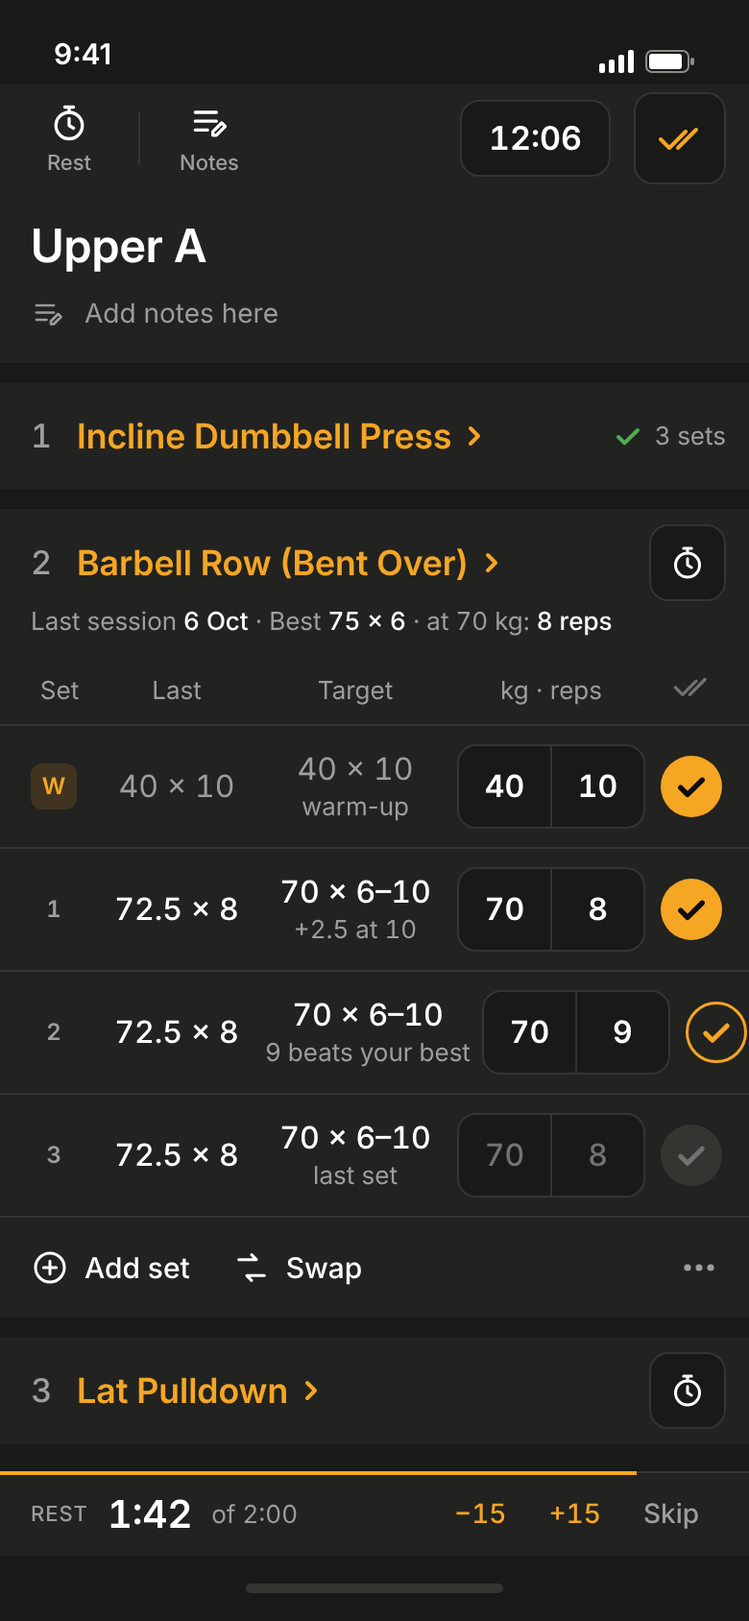
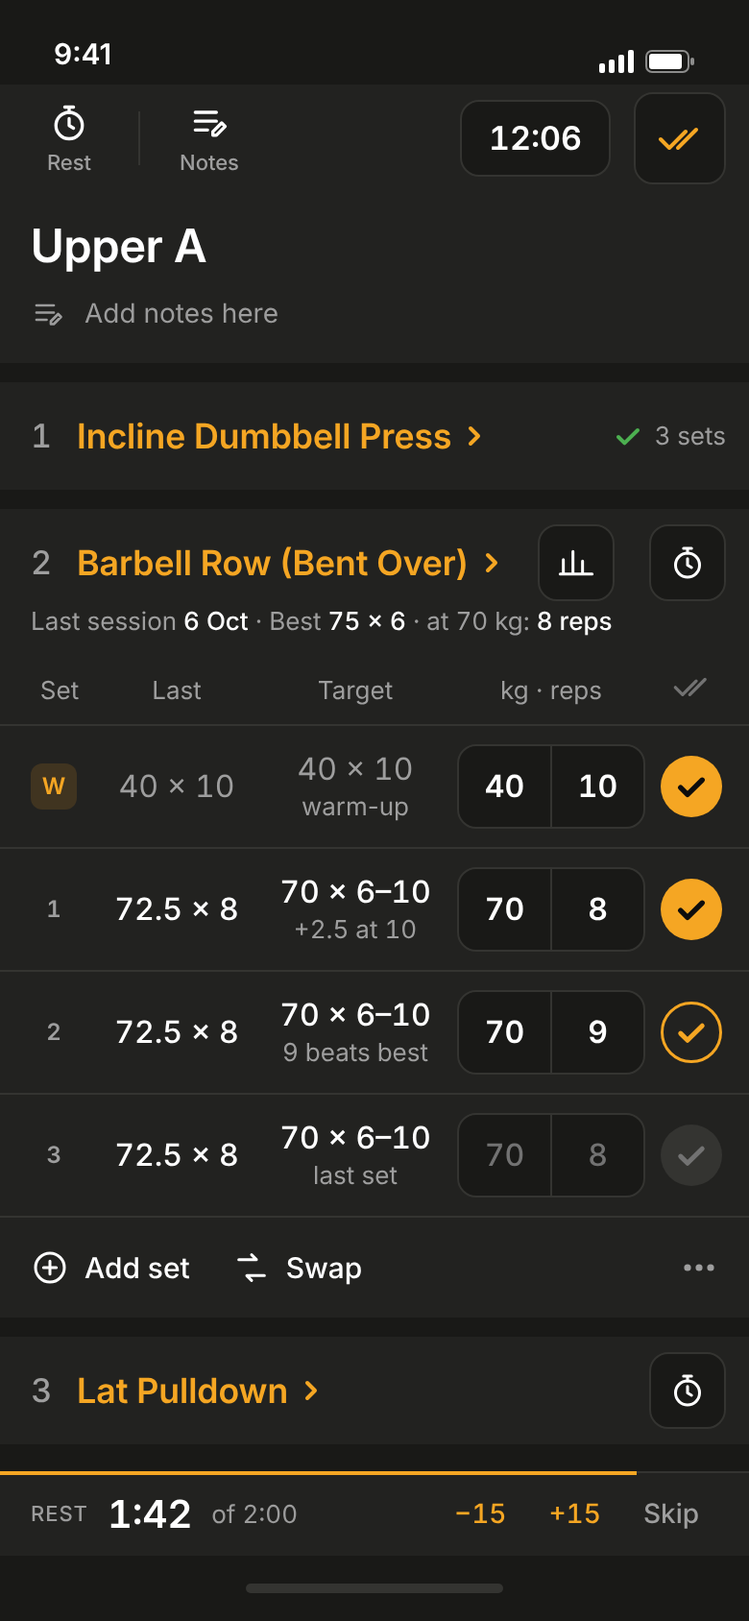
Workout logger rebuild: the JEFIT pattern, previous sets you can select and the records in full (D220 addendum 2)
Founder: look at how JEFIT lets you select the weights you have done
before and see your PRs. JEFIT studied from its store screens and its
own logging-screen article: rows pre-filled from the last log, a 1RM
badge beside the name opening a records sheet with lifetime and period
tabs, a charts page where a tapped point shows that day's logs. Volyume
builds a history glyph beside the rest button and a tappable bests line,
both opening a HistorySheet: previous sessions as chips that fill the
next row, and records for lifetime or three months with best reps at
each weight, each row tappable. Spec section 2b, the fourth drawing,
the design reference and both page copies updated.

diff --git a/docs/audit/workout-logger-audit-2026-10-06/12-design-reference.html b/docs/audit/workout-logger-audit-2026-10-06/12-design-reference.html
@@ -69,6 +69,28 @@
 .bc .key.sm{font-size:15px;color:var(--a)}
 .bc .key.next{color:var(--t1);font-size:16px}
 .bc .scroll{overflow:hidden;flex:1 1 auto;min-height:0}
+.bc .scrim{position:absolute;inset:0;background:rgba(0,0,0,.55)}
+.bc .sheetp{position:absolute;left:0;right:0;bottom:0;background:var(--sec);border-top-left-radius:20px;border-top-right-radius:20px;border-top:1px solid var(--bd);padding:8px 16px 0}
+.bc .hndl{width:36px;height:4px;border-radius:2px;background:var(--bd);margin:0 auto 12px}
+.bc .sh-title{font-size:17px;font-weight:500;text-align:center}
+.bc .seg{display:flex;background:var(--well);border:1px solid var(--wellbd);border-radius:10px;padding:3px;margin:12px 0 14px}
+.bc .seg span{flex:1;height:34px;display:flex;align-items:center;justify-content:center;font-size:13px;font-weight:500;color:var(--t2);border-radius:8px}
+.bc .seg span.on{background:var(--s3);color:var(--t1)}
+.bc .sess{padding:10px 0 6px}
+.bc .sess .d{font-size:13px;color:var(--t2);margin-bottom:8px;display:flex;justify-content:space-between}
+.bc .chips{display:flex;flex-wrap:wrap;gap:8px}
+.bc .chip{height:36px;padding:0 12px;border-radius:999px;background:var(--well);border:1px solid var(--wellbd);display:flex;align-items:center;font-size:15px;font-weight:500}
+.bc .chip.best{border-color:var(--a)}
+.bc .chip .pr{margin-left:6px}
+.bc .rec{display:flex;justify-content:space-between;align-items:center;height:52px;border-bottom:1px solid var(--hair)}
+.bc .rec .l{font-size:13px;color:var(--t2)}
+.bc .rec .r{text-align:right}
+.bc .rec .r b{display:block;font-size:16px;font-weight:600}
+.bc .rec .r i{font-style:normal;font-size:11px;color:var(--t3)}
+.bc .tog{display:flex;gap:8px;margin:0 0 6px}
+.bc .tog span{height:32px;padding:0 12px;border-radius:999px;border:1px solid var(--wellbd);display:flex;align-items:center;font-size:13px;color:var(--t2)}
+.bc .tog span.on{background:var(--abg);border-color:var(--a);color:var(--a)}
+
 
 html,body{margin:0;background:#0D0D0D} body{display:flex;gap:24px} .bc{border-radius:0;border:0}</style></head><body>
 
@@ -84,12 +106,12 @@ html,body{margin:0;background:#0D0D0D} body{display:flex;gap:24px} .bc{border-ra
   <div class="sec"><div class="xh"><span class="idx n">1</span><span class="nm">Incline Dumbbell Press <svg width="16" height="16" viewBox="0 0 16 16" fill="none" stroke="#F5A623" stroke-width="2" stroke-linecap="round" stroke-linejoin="round" style="flex:0 0 auto"><path d="M6 4l4 4-4 4"/></svg></span><span class="done"><svg width="16" height="16" viewBox="0 0 16 16" fill="none" stroke="#4CAF50" stroke-width="2" stroke-linecap="round" stroke-linejoin="round"><path d="M3 8.5l3.2 3.2L13 5"/></svg> 3 sets</span></div></div>
   <div class="band"></div>
   <div class="sec">
-    <div class="xh"><span class="idx n">2</span><span class="nm">Barbell Row (Bent Over) <svg width="16" height="16" viewBox="0 0 16 16" fill="none" stroke="#F5A623" stroke-width="2" stroke-linecap="round" stroke-linejoin="round" style="flex:0 0 auto"><path d="M6 4l4 4-4 4"/></svg></span><span class="sq"><svg width="20" height="20" viewBox="0 0 24 24" fill="none" stroke="#FFFFFF" stroke-width="1.8" stroke-linecap="round" stroke-linejoin="round"><circle cx="12" cy="13.5" r="7.5"/><path d="M12 9.5v4l2.5 1.5M9.5 3h5M12 3v3"/></svg></span></div>
+    <div class="xh"><span class="idx n">2</span><span class="nm">Barbell Row (Bent Over) <svg width="16" height="16" viewBox="0 0 16 16" fill="none" stroke="#F5A623" stroke-width="2" stroke-linecap="round" stroke-linejoin="round" style="flex:0 0 auto"><path d="M6 4l4 4-4 4"/></svg></span><span class="sq" style="margin-left:auto"><svg width="20" height="20" viewBox="0 0 24 24" fill="none" stroke="#FFFFFF" stroke-width="1.8" stroke-linecap="round" stroke-linejoin="round"><path d="M4 19V10M10 19V5M16 19v-8M22 19H2"/></svg></span><span class="sq" style="margin-left:8px"><svg width="20" height="20" viewBox="0 0 24 24" fill="none" stroke="#FFFFFF" stroke-width="1.8" stroke-linecap="round" stroke-linejoin="round"><circle cx="12" cy="13.5" r="7.5"/><path d="M12 9.5v4l2.5 1.5M9.5 3h5M12 3v3"/></svg></span></div>
     <div class="bests n">Last session <b>6 Oct</b> · Best <b>75 × 6</b> · at 70 kg: <b>8 reps</b></div>
     <div class="cols"><span class="c">Set</span><span class="c">Last</span><span class="c">Target</span><span class="c">kg · reps</span><span class="c"><svg width="20" height="20" viewBox="0 0 24 24" fill="none" stroke="#727272" stroke-width="2" stroke-linecap="round" stroke-linejoin="round" style="margin:0 auto"><path d="M2 12.5l4.5 4.5L15 8.5"/><path d="M11 17l9.5-9.5"/></svg></span></div>
     <div class="row"><span class="mk w">W</span><div class="cell dim"><div class="v n">40 × 10</div></div><div class="cell dim"><div class="v n">40 × 10</div><div class="s">warm-up</div></div><div class="wells n"><span>40</span><span>10</span></div><span class="chk on"><svg width="18" height="18" viewBox="0 0 16 16" fill="none" stroke="#0D0D0D" stroke-width="2.4" stroke-linecap="round" stroke-linejoin="round"><path d="M3 8.5l3.2 3.2L13 5"/></svg></span></div>
     <div class="row"><span class="mk n">1</span><div class="cell"><div class="v n">72.5 × 8</div></div><div class="cell"><div class="v n">70 × 6–10</div><div class="s n">+2.5 at 10</div></div><div class="wells n"><span>70</span><span>8</span></div><span class="chk on"><svg width="18" height="18" viewBox="0 0 16 16" fill="none" stroke="#0D0D0D" stroke-width="2.4" stroke-linecap="round" stroke-linejoin="round"><path d="M3 8.5l3.2 3.2L13 5"/></svg></span></div>
-    <div class="row"><span class="mk n">2</span><div class="cell"><div class="v n">72.5 × 8</div></div><div class="cell"><div class="v n">70 × 6–10</div><div class="s n">9 beats your best</div></div><div class="wells n"><span>70</span><span>9</span></div><span class="chk next"><svg width="18" height="18" viewBox="0 0 16 16" fill="none" stroke="#F5A623" stroke-width="2.2" stroke-linecap="round" stroke-linejoin="round"><path d="M3 8.5l3.2 3.2L13 5"/></svg></span></div>
+    <div class="row"><span class="mk n">2</span><div class="cell"><div class="v n">72.5 × 8</div></div><div class="cell"><div class="v n">70 × 6–10</div><div class="s n">9 beats best</div></div><div class="wells n"><span>70</span><span>9</span></div><span class="chk next"><svg width="18" height="18" viewBox="0 0 16 16" fill="none" stroke="#F5A623" stroke-width="2.2" stroke-linecap="round" stroke-linejoin="round"><path d="M3 8.5l3.2 3.2L13 5"/></svg></span></div>
     <div class="row"><span class="mk n">3</span><div class="cell"><div class="v n">72.5 × 8</div></div><div class="cell"><div class="v n">70 × 6–10</div><div class="s">last set</div></div><div class="wells n ph"><span>70</span><span>8</span></div><span class="chk"><svg width="18" height="18" viewBox="0 0 16 16" fill="none" stroke="#727272" stroke-width="2.2" stroke-linecap="round" stroke-linejoin="round"><path d="M3 8.5l3.2 3.2L13 5"/></svg></span></div>
     <div class="ft"><span><svg width="20" height="20" viewBox="0 0 24 24" fill="none" stroke="#FFFFFF" stroke-width="1.8" stroke-linecap="round"><circle cx="12" cy="12" r="9"/><path d="M12 8v8M8 12h8"/></svg>Add set</span><span><svg width="20" height="20" viewBox="0 0 24 24" fill="none" stroke="#FFFFFF" stroke-width="1.8" stroke-linecap="round" stroke-linejoin="round"><path d="M4 7h11l-3-3M20 17H9l3 3"/></svg>Swap</span><span class="more"><svg width="20" height="20" viewBox="0 0 20 20" fill="#9E9E9E"><circle cx="4" cy="10" r="1.8"/><circle cx="10" cy="10" r="1.8"/><circle cx="16" cy="10" r="1.8"/></svg></span></div>
   </div>
@@ -111,12 +133,12 @@ html,body{margin:0;background:#0D0D0D} body{display:flex;gap:24px} .bc{border-ra
   <div class="sec"><div class="xh"><span class="idx n">1</span><span class="nm">Incline Dumbbell Press <svg width="16" height="16" viewBox="0 0 16 16" fill="none" stroke="#F5A623" stroke-width="2" stroke-linecap="round" stroke-linejoin="round" style="flex:0 0 auto"><path d="M6 4l4 4-4 4"/></svg></span><span class="done"><svg width="16" height="16" viewBox="0 0 16 16" fill="none" stroke="#4CAF50" stroke-width="2" stroke-linecap="round" stroke-linejoin="round"><path d="M3 8.5l3.2 3.2L13 5"/></svg> 3 sets</span></div></div>
   <div class="band"></div>
   <div class="sec">
-    <div class="xh"><span class="idx n">2</span><span class="nm">Barbell Row (Bent Over) <svg width="16" height="16" viewBox="0 0 16 16" fill="none" stroke="#F5A623" stroke-width="2" stroke-linecap="round" stroke-linejoin="round" style="flex:0 0 auto"><path d="M6 4l4 4-4 4"/></svg></span><span class="sq"><svg width="20" height="20" viewBox="0 0 24 24" fill="none" stroke="#FFFFFF" stroke-width="1.8" stroke-linecap="round" stroke-linejoin="round"><circle cx="12" cy="13.5" r="7.5"/><path d="M12 9.5v4l2.5 1.5M9.5 3h5M12 3v3"/></svg></span></div>
+    <div class="xh"><span class="idx n">2</span><span class="nm">Barbell Row (Bent Over) <svg width="16" height="16" viewBox="0 0 16 16" fill="none" stroke="#F5A623" stroke-width="2" stroke-linecap="round" stroke-linejoin="round" style="flex:0 0 auto"><path d="M6 4l4 4-4 4"/></svg></span><span class="sq" style="margin-left:auto"><svg width="20" height="20" viewBox="0 0 24 24" fill="none" stroke="#FFFFFF" stroke-width="1.8" stroke-linecap="round" stroke-linejoin="round"><path d="M4 19V10M10 19V5M16 19v-8M22 19H2"/></svg></span><span class="sq" style="margin-left:8px"><svg width="20" height="20" viewBox="0 0 24 24" fill="none" stroke="#FFFFFF" stroke-width="1.8" stroke-linecap="round" stroke-linejoin="round"><circle cx="12" cy="13.5" r="7.5"/><path d="M12 9.5v4l2.5 1.5M9.5 3h5M12 3v3"/></svg></span></div>
     <div class="bests n">Last session <b>6 Oct</b> · Best <b>75 × 6</b> · at 70 kg: <b>8 reps</b></div>
     <div class="cols"><span class="c">Set</span><span class="c">Last</span><span class="c">Target</span><span class="c">kg · reps</span><span class="c"><svg width="20" height="20" viewBox="0 0 24 24" fill="none" stroke="#727272" stroke-width="2" stroke-linecap="round" stroke-linejoin="round" style="margin:0 auto"><path d="M2 12.5l4.5 4.5L15 8.5"/><path d="M11 17l9.5-9.5"/></svg></span></div>
     <div class="row"><span class="mk w">W</span><div class="cell dim"><div class="v n">40 × 10</div></div><div class="cell dim"><div class="v n">40 × 10</div><div class="s">warm-up</div></div><div class="wells n"><span>40</span><span>10</span></div><span class="chk on"><svg width="18" height="18" viewBox="0 0 16 16" fill="none" stroke="#0D0D0D" stroke-width="2.4" stroke-linecap="round" stroke-linejoin="round"><path d="M3 8.5l3.2 3.2L13 5"/></svg></span></div>
     <div class="row"><span class="mk n">1</span><div class="cell"><div class="v n">72.5 × 8</div></div><div class="cell"><div class="v n">70 × 6–10</div><div class="s n">+2.5 at 10</div></div><div class="wells n"><span>70</span><span>8</span></div><span class="chk on"><svg width="18" height="18" viewBox="0 0 16 16" fill="none" stroke="#0D0D0D" stroke-width="2.4" stroke-linecap="round" stroke-linejoin="round"><path d="M3 8.5l3.2 3.2L13 5"/></svg></span></div>
-    <div class="row"><span class="mk n">2</span><div class="cell"><div class="v n">72.5 × 8</div></div><div class="cell"><div class="v n">70 × 6–10</div><div class="s n">9 beats your best</div></div><div class="wells n"><span>70</span><span>9</span></div><span class="chk next"><svg width="18" height="18" viewBox="0 0 16 16" fill="none" stroke="#F5A623" stroke-width="2.2" stroke-linecap="round" stroke-linejoin="round"><path d="M3 8.5l3.2 3.2L13 5"/></svg></span></div>
+    <div class="row"><span class="mk n">2</span><div class="cell"><div class="v n">72.5 × 8</div></div><div class="cell"><div class="v n">70 × 6–10</div><div class="s n">9 beats best</div></div><div class="wells n"><span>70</span><span>9</span></div><span class="chk next"><svg width="18" height="18" viewBox="0 0 16 16" fill="none" stroke="#F5A623" stroke-width="2.2" stroke-linecap="round" stroke-linejoin="round"><path d="M3 8.5l3.2 3.2L13 5"/></svg></span></div>
     <div class="row"><span class="mk n">3</span><div class="cell"><div class="v n">72.5 × 8</div></div><div class="cell"><div class="v n">70 × 6–10</div><div class="s">last set</div></div><div class="wells n ph"><span>70</span><span>8</span></div><span class="chk"><svg width="18" height="18" viewBox="0 0 16 16" fill="none" stroke="#727272" stroke-width="2.2" stroke-linecap="round" stroke-linejoin="round"><path d="M3 8.5l3.2 3.2L13 5"/></svg></span></div>
     <div class="ft"><span><svg width="20" height="20" viewBox="0 0 24 24" fill="none" stroke="#FFFFFF" stroke-width="1.8" stroke-linecap="round"><circle cx="12" cy="12" r="9"/><path d="M12 8v8M8 12h8"/></svg>Add set</span><span><svg width="20" height="20" viewBox="0 0 24 24" fill="none" stroke="#FFFFFF" stroke-width="1.8" stroke-linecap="round" stroke-linejoin="round"><path d="M4 7h11l-3-3M20 17H9l3 3"/></svg>Swap</span><span class="more"><svg width="20" height="20" viewBox="0 0 20 20" fill="#9E9E9E"><circle cx="4" cy="10" r="1.8"/><circle cx="10" cy="10" r="1.8"/><circle cx="16" cy="10" r="1.8"/></svg></span></div>
   </div>
@@ -135,12 +157,12 @@ html,body{margin:0;background:#0D0D0D} body{display:flex;gap:24px} .bc{border-ra
   </div>
   <div class="scroll">
   <div class="sec">
-    <div class="xh"><span class="idx n">2</span><span class="nm">Barbell Row (Bent Over) <svg width="16" height="16" viewBox="0 0 16 16" fill="none" stroke="#F5A623" stroke-width="2" stroke-linecap="round" stroke-linejoin="round" style="flex:0 0 auto"><path d="M6 4l4 4-4 4"/></svg></span><span class="sq"><svg width="20" height="20" viewBox="0 0 24 24" fill="none" stroke="#FFFFFF" stroke-width="1.8" stroke-linecap="round" stroke-linejoin="round"><circle cx="12" cy="13.5" r="7.5"/><path d="M12 9.5v4l2.5 1.5M9.5 3h5M12 3v3"/></svg></span></div>
+    <div class="xh"><span class="idx n">2</span><span class="nm">Barbell Row (Bent Over) <svg width="16" height="16" viewBox="0 0 16 16" fill="none" stroke="#F5A623" stroke-width="2" stroke-linecap="round" stroke-linejoin="round" style="flex:0 0 auto"><path d="M6 4l4 4-4 4"/></svg></span><span class="sq" style="margin-left:auto"><svg width="20" height="20" viewBox="0 0 24 24" fill="none" stroke="#FFFFFF" stroke-width="1.8" stroke-linecap="round" stroke-linejoin="round"><path d="M4 19V10M10 19V5M16 19v-8M22 19H2"/></svg></span><span class="sq" style="margin-left:8px"><svg width="20" height="20" viewBox="0 0 24 24" fill="none" stroke="#FFFFFF" stroke-width="1.8" stroke-linecap="round" stroke-linejoin="round"><circle cx="12" cy="13.5" r="7.5"/><path d="M12 9.5v4l2.5 1.5M9.5 3h5M12 3v3"/></svg></span></div>
     <div class="bests n">Last session <b>6 Oct</b> · Best <b>75 × 6</b> · at 70 kg: <b>8 reps</b></div>
     <div class="cols"><span class="c">Set</span><span class="c">Last</span><span class="c">Target</span><span class="c">kg · reps</span><span class="c"><svg width="20" height="20" viewBox="0 0 24 24" fill="none" stroke="#727272" stroke-width="2" stroke-linecap="round" stroke-linejoin="round" style="margin:0 auto"><path d="M2 12.5l4.5 4.5L15 8.5"/><path d="M11 17l9.5-9.5"/></svg></span></div>
     <div class="row"><span class="mk w">W</span><div class="cell dim"><div class="v n">40 × 10</div></div><div class="cell dim"><div class="v n">40 × 10</div><div class="s">warm-up</div></div><div class="wells n"><span>40</span><span>10</span></div><span class="chk on"><svg width="18" height="18" viewBox="0 0 16 16" fill="none" stroke="#0D0D0D" stroke-width="2.4" stroke-linecap="round" stroke-linejoin="round"><path d="M3 8.5l3.2 3.2L13 5"/></svg></span></div>
     <div class="row"><span class="mk n">1</span><div class="cell"><div class="v n">72.5 × 8</div></div><div class="cell"><div class="v n">70 × 6–10<span class="pr">PR</span></div><div class="s n">+2.5 at 10</div></div><div class="wells n"><span>70</span><span>9</span></div><span class="chk on"><svg width="18" height="18" viewBox="0 0 16 16" fill="none" stroke="#0D0D0D" stroke-width="2.4" stroke-linecap="round" stroke-linejoin="round"><path d="M3 8.5l3.2 3.2L13 5"/></svg></span></div>
-    <div class="row"><span class="mk n">2</span><div class="cell"><div class="v n">72.5 × 8</div></div><div class="cell"><div class="v n">70 × 6–10</div><div class="s n">10 beats your best</div></div><div class="wells n edit"><span class="on">72.5</span><span>9</span></div><span class="chk next"><svg width="18" height="18" viewBox="0 0 16 16" fill="none" stroke="#F5A623" stroke-width="2.2" stroke-linecap="round" stroke-linejoin="round"><path d="M3 8.5l3.2 3.2L13 5"/></svg></span></div>
+    <div class="row"><span class="mk n">2</span><div class="cell"><div class="v n">72.5 × 8</div></div><div class="cell"><div class="v n">70 × 6–10</div><div class="s n">10 beats best</div></div><div class="wells n edit"><span class="on">72.5</span><span>9</span></div><span class="chk next"><svg width="18" height="18" viewBox="0 0 16 16" fill="none" stroke="#F5A623" stroke-width="2.2" stroke-linecap="round" stroke-linejoin="round"><path d="M3 8.5l3.2 3.2L13 5"/></svg></span></div>
     <div class="row"><span class="mk n">3</span><div class="cell"><div class="v n">72.5 × 8</div></div><div class="cell"><div class="v n">70 × 6–10</div><div class="s">last set</div></div><div class="wells n ph"><span>70</span><span>8</span></div><span class="chk"><svg width="18" height="18" viewBox="0 0 16 16" fill="none" stroke="#727272" stroke-width="2.2" stroke-linecap="round" stroke-linejoin="round"><path d="M3 8.5l3.2 3.2L13 5"/></svg></span></div>
   </div>
   </div>
@@ -155,5 +177,38 @@ html,body{margin:0;background:#0D0D0D} body{display:flex;gap:24px} .bc{border-ra
     </div>
   </div>
   <div class="home"><i></i></div>
+</div>
+
+<div class="bc" aria-label="History and records sheet">
+  <div class="sb"><span>9:41</span><span class="ic"><svg width="18" height="12" viewBox="0 0 18 12" fill="none"><rect x="0" y="7" width="3" height="5" rx="1" fill="#FFF"/><rect x="5" y="5" width="3" height="7" rx="1" fill="#FFF"/><rect x="10" y="2.5" width="3" height="9.5" rx="1" fill="#FFF"/><rect x="15" y="0" width="3" height="12" rx="1" fill="#FFF"/></svg><svg width="26" height="12" viewBox="0 0 26 12" fill="none"><rect x="0.5" y="0.5" width="22" height="11" rx="3" stroke="#FFF" stroke-opacity=".5"/><rect x="2" y="2" width="17" height="8" rx="1.5" fill="#FFF"/><rect x="23.5" y="4" width="2" height="4" rx="1" fill="#FFF" fill-opacity=".5"/></svg></span></div>
+  <div class="tb">
+    <div class="tool"><svg width="22" height="22" viewBox="0 0 24 24" fill="none" stroke="#FFFFFF" stroke-width="1.8" stroke-linecap="round" stroke-linejoin="round"><circle cx="12" cy="13.5" r="7.5"/><path d="M12 9.5v4l2.5 1.5M9.5 3h5M12 3v3"/></svg>Rest</div><div class="tbdiv"></div><div class="tool"><svg width="22" height="22" viewBox="0 0 24 24" fill="none" stroke="#FFFFFF" stroke-width="1.8" stroke-linecap="round" stroke-linejoin="round"><path d="M4 6h12M4 11h12M4 16h7"/><path d="M19 12l2 2-5 5h-2v-2l5-5z"/></svg>Notes</div>
+    <div class="pill n">12:06</div>
+    <div class="fin"><svg width="24" height="24" viewBox="0 0 24 24" fill="none" stroke="#F5A623" stroke-width="2" stroke-linecap="round" stroke-linejoin="round"><path d="M2 12.5l4.5 4.5L15 8.5"/><path d="M11 17l9.5-9.5"/></svg></div>
+  </div>
+  <div class="hd"><div class="t">Upper A</div><div class="note"><svg width="18" height="18" viewBox="0 0 24 24" fill="none" stroke="#9C9C9C" stroke-width="1.8" stroke-linecap="round" stroke-linejoin="round"><path d="M4 6h12M4 11h12M4 16h7"/><path d="M19 12l2 2-5 5h-2v-2l5-5z"/></svg>Add notes here</div></div>
+  <div class="band"></div>
+  <div class="sec"><div class="xh"><span class="idx n">1</span><span class="nm">Incline Dumbbell Press <svg width="16" height="16" viewBox="0 0 16 16" fill="none" stroke="#F5A623" stroke-width="2" stroke-linecap="round" stroke-linejoin="round" style="flex:0 0 auto"><path d="M6 4l4 4-4 4"/></svg></span><span class="done"><svg width="16" height="16" viewBox="0 0 16 16" fill="none" stroke="#4CAF50" stroke-width="2" stroke-linecap="round" stroke-linejoin="round"><path d="M3 8.5l3.2 3.2L13 5"/></svg> 3 sets</span></div></div>
+  <div class="band"></div>
+  <div class="sec">
+    <div class="xh"><span class="idx n">2</span><span class="nm">Barbell Row (Bent Over) <svg width="16" height="16" viewBox="0 0 16 16" fill="none" stroke="#F5A623" stroke-width="2" stroke-linecap="round" stroke-linejoin="round" style="flex:0 0 auto"><path d="M6 4l4 4-4 4"/></svg></span><span class="sq" style="margin-left:auto"><svg width="20" height="20" viewBox="0 0 24 24" fill="none" stroke="#FFFFFF" stroke-width="1.8" stroke-linecap="round" stroke-linejoin="round"><path d="M4 19V10M10 19V5M16 19v-8M22 19H2"/></svg></span><span class="sq" style="margin-left:8px"><svg width="20" height="20" viewBox="0 0 24 24" fill="none" stroke="#FFFFFF" stroke-width="1.8" stroke-linecap="round" stroke-linejoin="round"><circle cx="12" cy="13.5" r="7.5"/><path d="M12 9.5v4l2.5 1.5M9.5 3h5M12 3v3"/></svg></span></div>
+    <div class="bests n">Last session <b>6 Oct</b> · Best <b>75 × 6</b> · at 70 kg: <b>8 reps</b></div>
+  </div>
+  <div class="scrim"></div>
+  <div class="sheetp">
+    <div class="hndl"></div>
+    <div class="sh-title">Barbell Row (Bent Over)</div>
+    <div class="seg"><span class="on">History</span><span>Records</span></div>
+    <div class="sess"><div class="d n"><span>6 Oct · Upper A</span><span>3 sets</span></div><div class="chips n"><span class="chip best">72.5 × 8</span><span class="chip">72.5 × 8</span><span class="chip">70 × 10</span></div></div>
+    <div class="sess"><div class="d n"><span>29 Sep · Upper A</span><span>3 sets</span></div><div class="chips n"><span class="chip">70 × 10</span><span class="chip best">70 × 10</span><span class="chip">70 × 9</span></div></div>
+    <div class="sess"><div class="d n"><span>22 Sep · Upper A</span><span>3 sets</span></div><div class="chips n"><span class="chip best">75 × 6</span><span class="chip">70 × 8</span><span class="chip">70 × 8</span></div></div>
+    <div class="sess"><div class="d n"><span>15 Sep · Upper A</span><span>4 sets</span></div><div class="chips n"><span class="chip best">70 × 9</span><span class="chip">70 × 8</span><span class="chip">70 × 8</span><span class="chip">65 × 10</span></div></div>
+    <div style="height:14px"></div>
+    <div class="tog"><span class="on">Lifetime</span><span>3 months</span></div>
+    <div class="rec"><span class="l">Heaviest set</span><span class="r n"><b>75 kg × 6</b><i>22 Sep</i></span></div>
+    <div class="rec"><span class="l">Most reps at 70 kg</span><span class="r n"><b>10 reps</b><i>29 Sep</i></span></div>
+    <div class="rec"><span class="l">Best estimated max</span><span class="r n"><b>93 kg</b><i>22 Sep · 75 × 6</i></span></div>
+    <div class="home"><i></i></div>
+  </div>
 </div>
 </body></html>

diff --git a/docs/audit/workout-logger-audit-2026-10-06/08-research-page.html b/docs/audit/workout-logger-audit-2026-10-06/08-research-page.html
@@ -207,7 +207,7 @@ table.cmp.tight td,table.cmp.tight th{padding:8px 8px}
 
 <h2>2. The twelve screens</h2>
 <p>Each caption states what is observed (sizes approximate, see method), then the layout model. Source is the exact store asset the crop was taken from.</p>
-<p class="note"><b>Repository copy.</b> This file loads each full store screenshot from Apple's image host by URL rather than carrying the crops, and references the drawings as files beside it; the published page (the artifact linked from 00 and 09) carries the enlarged crops and the drawings inline.</p>
+<p class="note"><b>Repository copy.</b> This file loads each full store screenshot from Apple's image host by URL rather than carrying the crops, and references the drawings as files beside it; the published page carries the enlarged crops and the drawings inline.</p>
 <div class="grid">
 
 <figure class="shot"><img src="https://is1-ssl.mzstatic.com/image/thumb/PurpleSource211/v4/9e/20/11/9e2011c2-ef21-e716-c60a-5c2fe0b26297/a66b427f-5742-4ef6-9f1f-7fb2aeb5f927_screenshot1.png/640x1386bb.png" alt="Hevy active workout screen" loading="lazy">
@@ -607,6 +607,7 @@ table.cmp.tight td,table.cmp.tight th{padding:8px 8px}
 <figure class="shot"><img src="09-drawing-bc-black.png" alt="Volyume logger in Boostcamp's grammar, near-black tone"><div class="t">Near-black tone <span>house base</span></div></figure>
 <figure class="shot"><img src="09-drawing-bc-sheet.png" alt="Volyume logger in Boostcamp's grammar, sheet tone"><div class="t">Sheet tone <span>surface page</span></div></figure>
 <figure class="shot"><img src="09-drawing-bc-keypad.png" alt="Volyume logger in Boostcamp's grammar, keypad open"><div class="t">Keypad open <span>editing kg</span></div></figure>
+<figure class="shot"><img src="09-drawing-bc-history.png" alt="Volyume logger in Boostcamp's grammar, history and records sheet"><div class="t">History and records <span>founder addition</span></div></figure>
 </div>
 <div class="legend" style="max-width:760px">
 <ol>
@@ -618,6 +619,7 @@ table.cmp.tight td,table.cmp.tight th{padding:8px 8px}
 <li><b>Rows</b> at 64 with hairlines: W badge for the warm-up (only when one is logged), numbers for working sets, Last as last session's set, Target as the coach's numbers over the coach's rule, the joined wells, the check. Done rows: white values, amber check. The next set: the coach's numbers filled in white and an amber ring. Later sets: grey placeholders.</li>
 <li><b>Footer.</b> Add set, Swap, overflow.</li>
 <li><b>Rest strip.</b> The pinned 44 dp strip docked above the home indicator: REST, 1:42 at 20, of 2:00, −15, +15, Skip, with the amber line draining along its top edge.</li>
+<li><b>History and records sheet</b> (founder addition, 7 October, after JEFIT). Opened by the history glyph beside the rest button or by tapping the bests line. History: previous sessions newest first, each set a chip, the session's best ringed; tapping a chip puts that weight and reps into the next row. Records: Lifetime or 3 months, the heaviest set, most reps at today's weight, best estimated max and best session volume with their dates, then best reps at each weight, every row tappable. The drawing shows both segments stacked; in the app one shows at a time.</li>
 <li><b>Keypad.</b> Docked when a well is tapped: keyboard toggle, kg | Reps tabs, Clear; digits at 22; −2.5 and +2.5 in amber; point, Next (moves to reps, then to the check), backspace. A well being edited takes an amber edge and value.</li>
 </ol>
 </div>

diff --git a/docs/audit/workout-logger-audit-2026-10-06/12-BUILD-SPEC.md b/docs/audit/workout-logger-audit-2026-10-06/12-BUILD-SPEC.md
@@ -126,6 +126,55 @@ Props added: `ExerciseSection` gets `bests` ({ lastDateLabel, heaviest:
 line when present; `SetRow` gets `record: boolean` for the tag and `last`
 may carry `{ text, stale: boolean }`.
 
+## 2b. Founder addition, 2026-10-07: the JEFIT pattern, previous sets you can select and the PRs in full
+
+Founder, verbatim: "Ok so JeFit look at it I think you can select the
+weights you've done previously and see your PRs I'd like it like that.
+Research how they do it as it's very good for them and not just a line on
+the set you did it on."
+
+JEFIT, OBSERVED (store screenshots on both stores, the vendor's
+December 2023 logging-screen article and its images, the support notes):
+every planned set row arrives pre-filled from the last log (a setting
+chooses last time anywhere or last time in this routine); a "1RM: 62.1"
+badge sits beside the exercise name and opens a "1RM Calculator" sheet
+with tabs Current / Lifetime / 3M / 6M and a table of percentage, weight
+and reps; a Charts button in the header opens history and charts on one
+page where tapping a point shows that day's logs; the exercise page has a
+Log button listing every log; "New 3M Records!" fires as a toast. Not
+verified in any source: a tap on a previous log that copies it into
+today's row from the logging screen itself. SUGGESTS: what people value
+is that the previous numbers and the records are one tap from the row,
+with periods (lifetime, three months) rather than only the all-time best.
+
+What Volyume builds (on top of 2a):
+
+1. A history glyph button in the exercise header beside the rest button
+   (Ionicons `stats-chart-outline`), and the bests line itself, open the
+   HistorySheet.
+2. HistorySheet, segment History: previous sessions of this exercise,
+   newest first, each as a date and its sets as chips ("72.5 × 8"), the
+   session's best set ringed in amber. Tapping a chip puts that weight
+   and reps into the next row's wells (the thing the founder asked for:
+   select a weight you have done before). Source: `allTimeSets` already
+   loaded by `loadHistory`.
+3. Segment Records, with Lifetime | 3 months: heaviest set, most reps at
+   today's weight, best estimated max, best session volume, each with
+   its date; then "Best reps at each weight" for the weights done in the
+   last three months, heaviest first, every row tappable to use. The
+   estimated max belongs here, in the records sheet, not on the rows
+   (the retired routine est-max copy stays retired). Source: the record
+   system (`lib/workoutRecordLine.js`, `detectPR`, `algorithms.calculate1RM`
+   over `allTimeSets`).
+4. No percentage table and no plate figures (D15, D57); no RPE.
+5. The next row's wells still arrive filled with the coach's numbers; a
+   chip from the sheet overrides them and counts as typed
+   (`deriveEntryTyped` sees a difference from the seed).
+
+Props: `HistorySheet({ visible, onClose, exerciseName, segment, onSegment,
+history, records, repsAtWeight, onUseSet, units })`; `ExerciseSection`
+gets `onHistory`.
+
 ## 3. Components, props, tests (lane B1 and B2 build these; the lead wires them)
 
 - `SessionToolbar({ startTime, onClose, onRest, onNotes, onFinish, finishBusy })`: keeps `testID="volyume-workout-close"` and
@@ -135,7 +184,7 @@ may carry `{ text, stale: boolean }`.
 - `SetTable({ rows, onLogRemaining, onPressWell, onCheck, columnsLabel: {weight} })` and `SetRow({ marker: 'W'|'F'|number, last: { text, stale }, target: { value, rule }, wells: { weight, reps, state: 'logged'|'next'|'pending'|'editing', editingField }, check: 'logged'|'next'|'pending', record, onPressLast, onPressWell, onCheck, testIDs })` (record tag and stale last per section 2a).
   The next row carries `testID="volyume-btn-complete-set"` on its check (the existing test id of the primary), so the behaviour suites keep pressing the same id.
 - `Keypad({ field: 'weight'|'reps', value, step, unit, onKey, onStep, onClear, onNext, onDone, onSystemKeyboard })`: digits, point (weight only), backspace, −step, +step, Next, Done; TalkBack: `accessibilityRole="keyboardkey"` where available, else button with labels "Add 2.5 kilograms" etc.
-- `RestSheet`, `SessionNotesSheet`, `ExerciseRestSheet` on the house `BottomSheet`; the rest sheet reads the store's rest fields the way `RestTimer` does (RT:63-74) and calls the same adjust and skip actions.
+- `RestSheet`, `SessionNotesSheet`, `ExerciseRestSheet`, `HistorySheet` (section 2b) on the house `BottomSheet`; the rest sheet reads the store's rest fields the way `RestTimer` does (RT:63-74) and calls the same adjust and skip actions.
 
 Tests for each: render, props, every callback, accessibility labels, token-only source guard (no hex, no fontSize literal), and for `SetRow` the three states and the editing state.
 

diff --git a/docs/ux-world-class-audit-2026-07-09/DECISIONS-2026-07-09.md b/docs/ux-world-class-audit-2026-07-09/DECISIONS-2026-07-09.md
@@ -11910,3 +11910,5 @@ Asked in chat as a multiple-choice form (founder order: "Ask the questions multi
 **Build record:** `12-BUILD-SPEC.md` (architecture, visual spec, props, the job of every retired control, stages, re-pinned laws, device checklist, risks); lane briefs `briefs/B1-session-components.md`, `briefs/B2-session-sheets.md`.
 
 **D220 addendum 1 (2026-10-07, founder):** "Make sure we have previous weights and reps and maybe even the PRs on the screen so we can immediately go and beat them." Carried into `12-BUILD-SPEC.md` section 2a: last session on every row (with a tap to use it), a bests line under the exercise name (last date, heaviest set, most reps at today's weight), the record threshold in the next row's rule slot, a PR tag on a record-setting row. No estimated-max copy returns to the rows; the PR toast and the bans stand.
+
+**D220 addendum 2 (2026-10-07, founder):** "Ok so JeFit look at it I think you can select the weights you've done previously and see your PRs I'd like it like that. Research how they do it as it's very good for them and not just a line on the set you did it on." JEFIT studied from its store screens and its own logging-screen article (12-BUILD-SPEC.md section 2b): rows pre-filled from the last log, a 1RM badge beside the name opening a records sheet with Current / Lifetime / 3M / 6M tabs, a Charts button with history and charts on one page. Volyume builds a history glyph beside the rest button and makes the bests line tappable; both open a HistorySheet with History (previous sessions as tappable chips that fill the next row) and Records (lifetime and three months: heaviest set, most reps at today's weight, best estimated max, best session volume, and best reps at each weight, each row tappable). No percentage table, no plate figures, no RPE; the estimated max lives in the sheet, never on a row.
